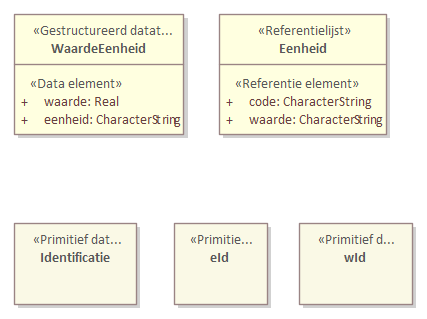
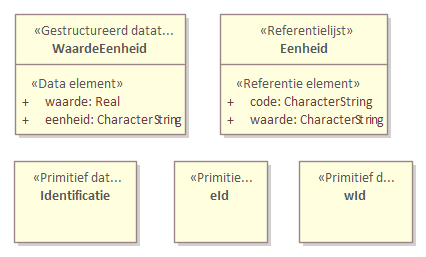
MIMCM-dso-cim-ow-1.0-0-20230213-20230513-165843

diff --git a/data/dso-cim-ow-cat.respec.html b/data/dso-cim-ow-cat.respec.html
@@ -1,7 +1,7 @@
 
 <!DOCTYPE HTML><section id="cat" class="normative">
    <h2>Gegevensdefinitie</h2>
-   <!--MIMCM-dso-cim-ow-1.0-0-20230213-20230513-165201 imvertor Nightly-build.4--><a class="anchor" id="global_packages"></a><section id="global_packages">
+   <!--MIMCM-dso-cim-ow-1.0-0-20230213-20230513-165843 imvertor Nightly-build.4--><a class="anchor" id="global_packages"></a><section id="global_packages">
       <h3>Model   dso-cim-ow</h3>
       <section id="EAID_E2DD325C_903E_481d_8D71_640C4FA550AD">
          <h4>   CIMOW - overzicht</h4>
@@ -80,7 +80,7 @@
       <h3>Domein   Datatypen Algemeen</h3>
       <section id="EAID_BE3C9DBB_974A_4c9e_A3B5_B38DC36031E8">
          <h4>   Datatypen Algemeen - overzicht</h4>
-         <div class="imageinfo overview"><img src="data/Images/EAID_BE3C9DBB_974A_4c9e_A3B5_B38DC36031E8.png" usemap="#imagemap-EAID_BE3C9DBB_974A_4c9e_A3B5_B38DC36031E8" alt="Diagram &#xA;                        &#xA;                     "><map name="imagemap-EAID_BE3C9DBB_974A_4c9e_A3B5_B38DC36031E8"><area shape="rect" alt="Identificatie" coords="14,223,137,305" href="#graph_EAID_F2580189_BC07_46f9_AAC6_947742A7F52E"><area shape="rect" alt="Eenheid Eenheid" coords="219,14,387,135" href="#graph_EAID_760AA864_CC8A_44dd_B46E_BBAFA779E4D0"><area shape="rect" alt="WaardeEenheid" coords="14,14,184,135" href="#graph_EAID_1BBF2542_A489_4825_867C_00C8AD6C08B6"></map><p><b>Datatypen Algemeen - overzicht</b></p>
+         <div class="imageinfo overview"><img src="data/Images/EAID_BE3C9DBB_974A_4c9e_A3B5_B38DC36031E8.png" usemap="#imagemap-EAID_BE3C9DBB_974A_4c9e_A3B5_B38DC36031E8" alt="Diagram &#xA;                        &#xA;                     "><map name="imagemap-EAID_BE3C9DBB_974A_4c9e_A3B5_B38DC36031E8"><area shape="rect" alt="Identificatie" coords="14,161,137,243" href="#graph_EAID_F2580189_BC07_46f9_AAC6_947742A7F52E"><area shape="rect" alt="Eenheid Eenheid" coords="220,14,388,135" href="#graph_EAID_760AA864_CC8A_44dd_B46E_BBAFA779E4D0"><area shape="rect" alt="WaardeEenheid" coords="15,14,186,135" href="#graph_EAID_1BBF2542_A489_4825_867C_00C8AD6C08B6"></map><p><b>Datatypen Algemeen - overzicht</b></p>
          </div>
       </section>
       <section id="">
@@ -200,12 +200,6 @@
                         </td>
                   </tr>
                   <tr>
-                     <th>Toelichting</th>
-                     <td>
-                        Een inhoudelijke toelichting op de toepassing van het informatie-element.
-                        </td>
-                  </tr>
-                  <tr>
                      <th>Data locatie</th>
                      <td>urn:imow:Functiegroep</td>
                   </tr>
@@ -250,9 +244,6 @@
                   </tbody>
                </table>
                </section>
-            
-            <section id="" class="notoc">
-               <h6>Toelichting  </h6>Een inhoudelijke toelichting op de toepassing van het informatie-element.</section>
             </section>
          </section>
       <section id="">
@@ -6946,7 +6937,7 @@
       <h3>Domein   Locatie</h3>
       <section id="EAID_73DE0CD2_3281_45f6_8BA4_3A0869631893">
          <h4>   Locaties - detail</h4>
-         <div class="imageinfo "><img src="data/Images/EAID_73DE0CD2_3281_45f6_8BA4_3A0869631893.png" usemap="#imagemap-EAID_73DE0CD2_3281_45f6_8BA4_3A0869631893" alt="Diagram "><map name="imagemap-EAID_73DE0CD2_3281_45f6_8BA4_3A0869631893"><area shape="rect" alt="PuntOfMultipunt" coords="605,661,875,797" href="#graph_EAID_2B882C47_7025_485b_9637_94BB006989E9"><area shape="rect" alt="LijnOfMultilijn" coords="931,661,1203,823" href="#graph_EAID_825C0DF1_95F5_4f2f_A48F_9FEE70088096"><area shape="rect" alt="BestuurlijkeGrenzenVerwijzing" coords="186,664,521,820" href="#graph_EAID_0E419B52_9153_4772_82CB_AD4B5563C11F"><area shape="rect" alt="Ambtsgebied" coords="14,462,521,623" href="#graph_EAID_8DF21334_4B64_4151_A104_C0DDB416CFA3"><area shape="rect" alt="WaardeEenheid" coords="1307,37,1533,172" href="#graph_EAID_1BBF2542_A489_4825_867C_00C8AD6C08B6"><area shape="rect" alt="Lijnengroep" coords="999,249,1163,314" href="#graph_EAID_515AE1C7_84B6_4d1f_B5FC_5530AFDA1FEA"><area shape="rect" alt="Puntengroep" coords="700,247,865,316" href="#graph_EAID_C72326A6_0AC9_450b_A79D_2DA3B4FF8E24"><area shape="rect" alt="VlakOfMultivlak" coords="1261,661,1540,823" href="#graph_EAID_52423CFC_5814_44f3_9D15_B32F7ADDBD69"><area shape="rect" alt="Lijn" coords="927,462,1205,638" href="#graph_EAID_23445257_E1F2_4839_8F63_320568A0DAA6"><area shape="rect" alt="Punt" coords="605,462,875,638" href="#graph_EAID_8E3C9FCC_CE33_4011_A195_3764059FBD5E"><area shape="rect" alt="Gebiedengroep" coords="1327,251,1494,310" href="#graph_EAID_FA6DF457_6BEB_4ffd_B10D_5FC4F41C8E1E"><area shape="rect" alt="Gebied" coords="1257,462,1544,638" href="#graph_EAID_9AC7936F_26E4_4a3b_B6A5_15FA7A46F233"><area shape="rect" alt="Locatie" coords="760,14,1035,149" href="#graph_EAID_7B02C4A5_DBDC_434f_A998_ACD912042BED"></map><p><b></b></p>
+         <div class="imageinfo "><img src="data/Images/EAID_73DE0CD2_3281_45f6_8BA4_3A0869631893.png" usemap="#imagemap-EAID_73DE0CD2_3281_45f6_8BA4_3A0869631893" alt="Diagram "><map name="imagemap-EAID_73DE0CD2_3281_45f6_8BA4_3A0869631893"><area shape="rect" alt="PuntOfMultipunt" coords="605,661,875,797" href="#graph_EAID_2B882C47_7025_485b_9637_94BB006989E9"><area shape="rect" alt="LijnOfMultilijn" coords="931,661,1203,823" href="#graph_EAID_825C0DF1_95F5_4f2f_A48F_9FEE70088096"><area shape="rect" alt="BestuurlijkeGrenzenVerwijzing" coords="186,664,521,820" href="#graph_EAID_0E419B52_9153_4772_82CB_AD4B5563C11F"><area shape="rect" alt="VlakOfMultivlak" coords="1261,661,1540,823" href="#graph_EAID_52423CFC_5814_44f3_9D15_B32F7ADDBD69"><area shape="rect" alt="Ambtsgebied" coords="14,462,521,623" href="#graph_EAID_8DF21334_4B64_4151_A104_C0DDB416CFA3"><area shape="rect" alt="WaardeEenheid" coords="1307,37,1533,172" href="#graph_EAID_1BBF2542_A489_4825_867C_00C8AD6C08B6"><area shape="rect" alt="Lijnengroep" coords="999,249,1163,314" href="#graph_EAID_515AE1C7_84B6_4d1f_B5FC_5530AFDA1FEA"><area shape="rect" alt="Puntengroep" coords="700,247,865,316" href="#graph_EAID_C72326A6_0AC9_450b_A79D_2DA3B4FF8E24"><area shape="rect" alt="Lijn" coords="927,462,1205,638" href="#graph_EAID_23445257_E1F2_4839_8F63_320568A0DAA6"><area shape="rect" alt="Punt" coords="605,462,875,638" href="#graph_EAID_8E3C9FCC_CE33_4011_A195_3764059FBD5E"><area shape="rect" alt="Gebiedengroep" coords="1327,251,1494,310" href="#graph_EAID_FA6DF457_6BEB_4ffd_B10D_5FC4F41C8E1E"><area shape="rect" alt="Gebied" coords="1257,462,1544,638" href="#graph_EAID_9AC7936F_26E4_4a3b_B6A5_15FA7A46F233"><area shape="rect" alt="Locatie" coords="760,14,1035,149" href="#graph_EAID_7B02C4A5_DBDC_434f_A998_ACD912042BED"></map><p><b></b></p>
          </div>
       </section>
       <section id="">
@@ -15687,7 +15678,13 @@
                   </table>
                   
                   <div class="notoc" id="">
-                     <h8>Toelichting  </h8>Een inhoudelijke toelichting op de toepassing van het informatie-element.</div>
+                     <h8>Toelichting  </h8>
+                     
+                     <p>Een symbolisatieItem bevat de symbolisatie die gehanteerd moet worden voor specifieke
+                        objecten, zoals in dit geval een normwaarde. Dit stelt een bevoegd gezag in staat
+                        om binnen één Norm (bijv. bouwhoogte) de afzonderlijke normwaarden (bouwhoogten) met
+                        verschillende kleuren te verbeelden</p>
+                     </div>
                   </div>
                </section>
             </section>
@@ -17391,7 +17388,7 @@
 </section>
 <section id="lis" class="normative">
    <h2>Inhoud van waardenlijsten</h2>
-   <!--MIMCM-dso-cim-ow-1.0-0-20230213-20230513-165201 imvertor Nightly-build.4-->
+   <!--MIMCM-dso-cim-ow-1.0-0-20230213-20230513-165843 imvertor Nightly-build.4-->
    <section id="">
       <h3>Referentielijst inhoud   </h3><a class="anchor" id="graph_EAID_246B5D1D_8A38_4ab7_B635_974DE27BBC1B"></a><a class="anchor" id="detail_class_DatatypenAlgemeen_Waardelijst"></a><section id="detail_class_DatatypenAlgemeen_Waardelijst">
          <h4>Referentielijst  Waardelijst</h4>
